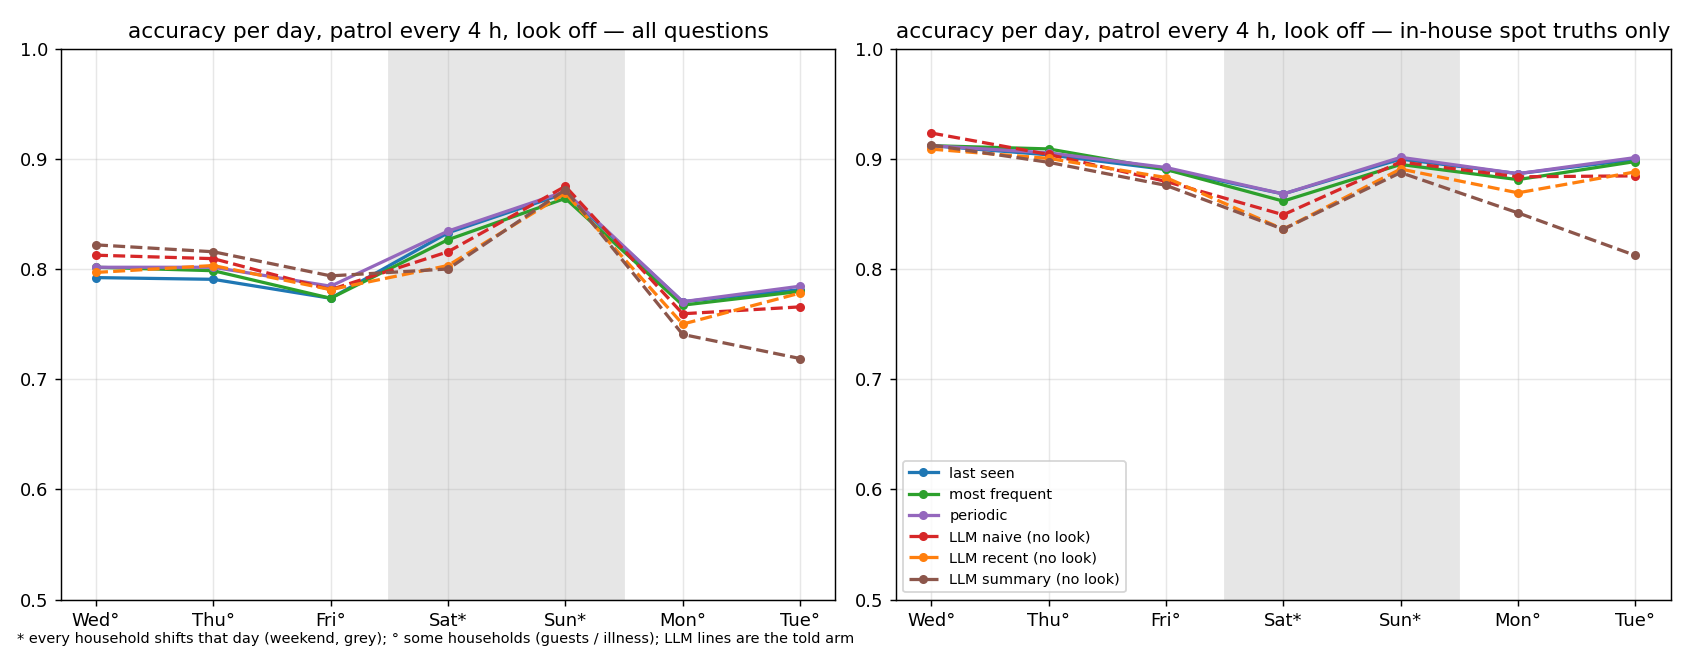
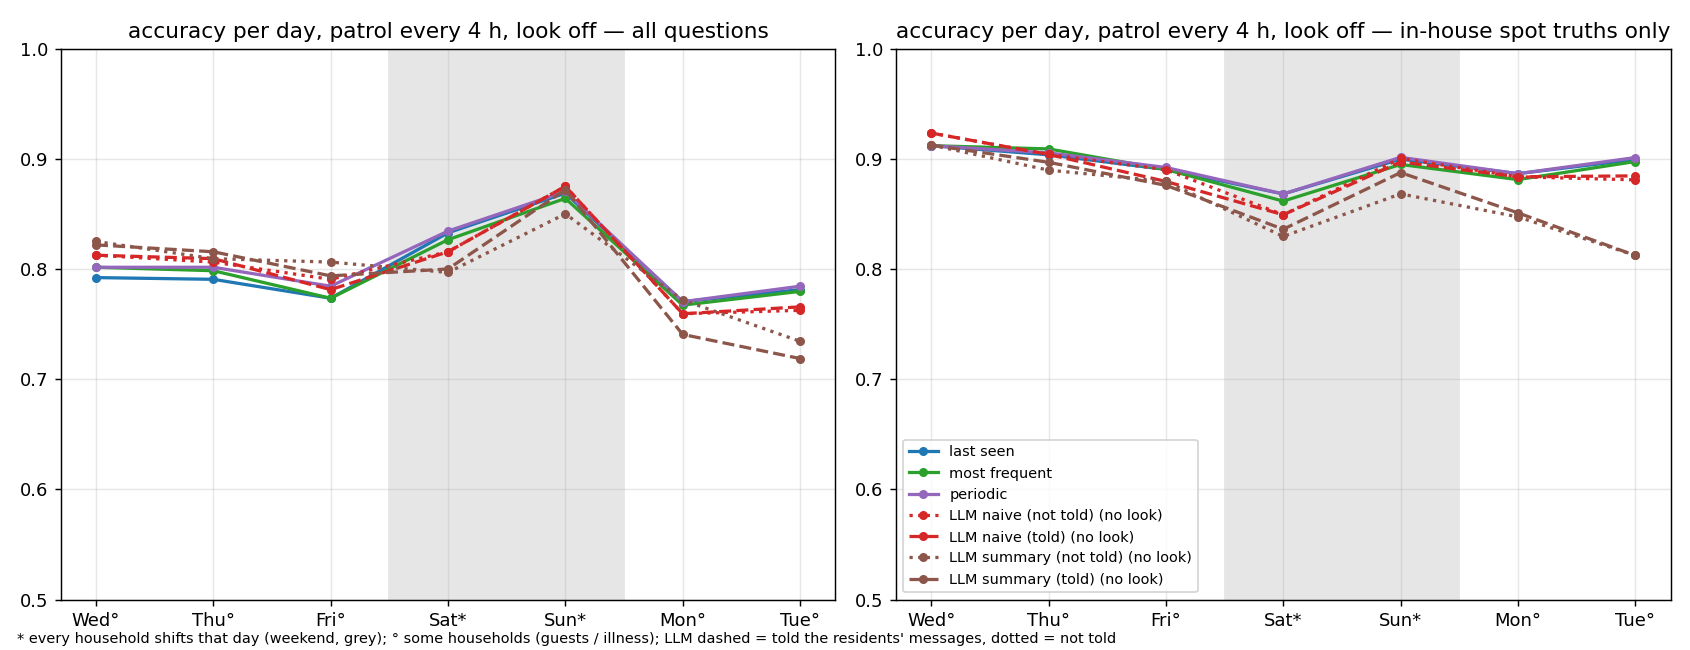
patrol figures: LLM roster = naive and summary, told (dashed) and not told (dotted); recent dropped

diff --git a/src/baselines/patrol/figures.py b/src/baselines/patrol/figures.py
@@ -29,10 +29,10 @@ def short(a: str) -> str:
 
 
 # The MAIN figure roster: three classical beliefs that behave differently (recency, frequency, periodicity)
-# and the three LLM memories in the told arm. The other classical beliefs sit within a point or two of
-# these and only add overlapping lines; told vs not-told is fig 3's own comparison. --all restores everyone.
+# and two LLM memories (naive, summary), each told and not told. The other classical beliefs sit within a
+# point or two of these and only add overlapping lines; "recent" tracks naive. --all restores everyone.
 MAIN_CLASSICAL = ("LastObservation", "MostFrequentLocation", "PeriodicPersistence(min_dep=2,bin=1h,hl=24h)")
-MAIN_LLM_PREFIX = ("llm_naive/told/", "llm_recent/told/", "llm_summary/told/")
+MAIN_LLM_PREFIX = ("llm_naive/told/", "llm_naive/not_told/", "llm_summary/told/", "llm_summary/not_told/")
 COLORS = {"LastObservation": "#1f77b4", "MostFrequentLocation": "#2ca02c", "PeriodicPersistence(min_dep=2,bin=1h,hl=24h)": "#9467bd",
           "llm_naive": "#d62728", "llm_recent": "#ff7f0e", "llm_summary": "#8c564b"}
 
@@ -40,6 +40,18 @@ COLORS = {"LastObservation": "#1f77b4", "MostFrequentLocation": "#2ca02c", "Peri
 def in_main(agent: str) -> bool:
     return agent in MAIN_CLASSICAL or any(agent.startswith(p) for p in MAIN_LLM_PREFIX) \
         or (agent.startswith("llm_") and "/not_told/" not in agent and "/told/" not in agent)
+
+
+def style(agent: str) -> str:
+    """Classical solid; LLM told dashed, not-told dotted."""
+    if not agent.startswith("llm_"):
+        return "-"
+    return ":" if "/not_told/" in agent else "--"
+
+
+def label(agent: str) -> str:
+    s = short(agent)
+    return s.replace("/not_told", " (not told)").replace("/told", " (told)")
 
 
 def color(agent: str):
@@ -98,12 +110,12 @@ def main(argv=None) -> int:
                 for d in days:
                     rs = [r for r in sub if r["agent"] == ag and r["day_index"] == d and (kinds is None or truth_kind(r["truth"]) in kinds)]
                     ys.append(sum(r["correct"] for r in rs) / len(rs) if rs else float("nan"))
-                ax.plot(range(len(days)), ys, marker="o", ms=4, lw=1.8, label=short(ag).replace("/told", ""), color=color(ag), ls="--" if ag.startswith("llm") else "-")
+                ax.plot(range(len(days)), ys, marker="o", ms=4, lw=1.8, label=label(ag), color=color(ag), ls=style(ag))
             shade(ax)
             ax.set_xticks(range(len(days))); ax.set_xticklabels(labels); ax.set_ylim(0.5, 1.0); ax.grid(alpha=0.3)
             ax.set_title(f"accuracy per day, patrol every {a.density} h, look {'/'.join(look_set)} — {title}")
         axes[1].legend(fontsize=8, ncol=1, loc="lower left")
-        fig.text(0.01, 0.01, "* every household shifts that day (weekend, grey); ° some households (guests / illness)" + ("" if a.all else "; LLM lines are the told arm"), fontsize=8)
+        fig.text(0.01, 0.01, "* every household shifts that day (weekend, grey); ° some households (guests / illness); LLM dashed = told the residents' messages, dotted = not told", fontsize=8)
         fig.tight_layout(); fig.savefig(a.out / fname, dpi=130); plt.close(fig)
 
     # 2. accuracy vs density: classical agents at every density; LLM agents only where they ran at
@@ -116,8 +128,7 @@ def main(argv=None) -> int:
             dens = sorted({d for (a, d) in cells if a == ag})
             if len(dens) < 2:
                 continue
-            ax.plot(dens, [cells[(ag, d)].acc_all for d in dens], marker="o", lw=1.8, label=short(ag).replace("/told", ""), color=color(ag),
-                    ls="--" if ag.startswith("llm") else "-")
+            ax.plot(dens, [cells[(ag, d)].acc_all for d in dens], marker="o", lw=1.8, label=label(ag), color=color(ag), ls=style(ag))
         all_dens = sorted({r["patrol_hours"] for r in sub})
         ax.set_xscale("log", base=2); ax.set_xticks(all_dens); ax.set_xticklabels([f"every {d} h" for d in all_dens])
         ax.set_title(f"accuracy vs patrol density, look {'/'.join(lks)}"); ax.grid(alpha=0.3); ax.set_ylim(0.6, 1.0)
@@ -151,12 +162,14 @@ def main(argv=None) -> int:
             for ag in agents:
                 if thr is None and not ag.startswith("llm"):
                     continue
-                lab = short(ag).replace("/told", "") + ("" if thr else " (outright ABSTAIN only)")
-                axes[0].plot(range(len(days)), [cells.get((ag, d), Cell()).abstain_rate for d in days], marker="o", ms=4, lw=1.8, ls=ls, color=color(ag), label=lab)
-                axes[1].plot(range(len(days)), [cells.get((ag, d), Cell()).acc_answered for d in days], marker="o", ms=4, lw=1.8, ls=ls, color=color(ag), label=lab)
-        for ax, t in zip(axes, ("abstain rate per day\nsolid: abstain when top probability < 0.5 · dotted: the LLM's own ABSTAIN answers", "accuracy among the questions actually answered")):
+                if thr is None and "/not_told/" in ag:
+                    continue      # the outright-ABSTAIN overlay once per memory (told arm) keeps the panel readable
+                lab = label(ag) + ("" if thr else " · outright ABSTAIN only")
+                axes[0].plot(range(len(days)), [cells.get((ag, d), Cell()).abstain_rate for d in days], marker="o", ms=4, lw=1.8, ls=(style(ag) if thr else "-."), color=color(ag), label=lab, alpha=1 if thr else .7)
+                axes[1].plot(range(len(days)), [cells.get((ag, d), Cell()).acc_answered for d in days], marker="o", ms=4, lw=1.8, ls=(style(ag) if thr else "-."), color=color(ag), label=lab, alpha=1 if thr else .7)
+        for ax, t in zip(axes, ("abstain rate per day (abstain when top probability < 0.5)\nLLM dashed = told, dotted = not told; dash-dot = the LLM's own ABSTAIN answers only", "accuracy among the questions actually answered")):
             shade(ax); ax.set_xticks(range(len(days))); ax.set_xticklabels(labels); ax.grid(alpha=0.3); ax.set_title(t, fontsize=10)
-        axes[0].legend(fontsize=8, ncol=1, loc="upper right")
+        axes[0].legend(fontsize=8, ncol=1, loc="center")
         fig.tight_layout(); fig.savefig(a.out / "fig4_abstain_per_day.png", dpi=130); plt.close(fig)
     print(f"wrote figures to {a.out}")
     return 0
